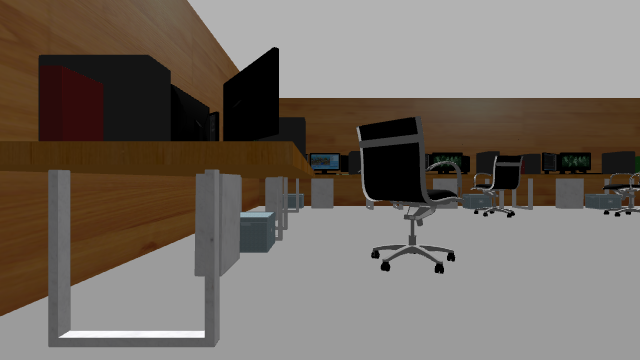
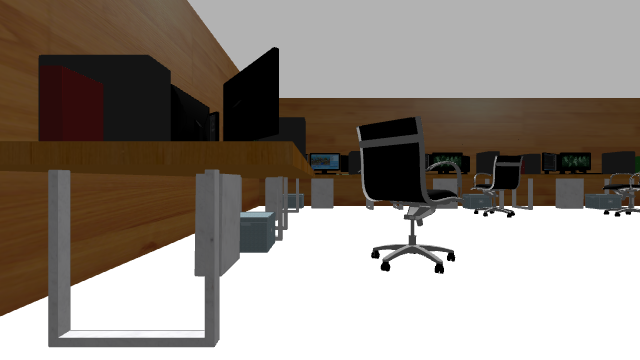
Paint the env04 floor white and refresh its shots
Change the ground-plane material from Gazebo/Grey to Gazebo/White in both the run world and the no-robot render world, so the near-orthographic top view is no longer black. Re-render the nine cameras, top view, annotated top and contact sheet.

diff --git a/scene_impl/IMPLEMENTATION_REPORT.md b/scene_impl/IMPLEMENTATION_REPORT.md
@@ -25,6 +25,7 @@
 > 3. B5 保持负分，B2/B3/目标不变；`audit_scene.py` 的 `DOOR_LABELS` 已同步（D_b1 负分、D_b4 办公）。
 > 4. 2026-11-17 已重渲染 env06 的 10 个机位、俯视图/标注图和 `rooms_contact_sheet.png`（新增 `cam_b4`/`cam_b4in`）。
 > 5. 2026-11-17 env04 接入同一套截图流程（9 机位 + 俯视/标注/拼图，输出 `shots/env04`）；同时修复可视化成功判定（audit 先于可视化运行，并回退读取 `audit.completion.task_done`）和设计平面图门宽标签（1.4 m → 实际 2.30 m）。
+> 6. 2026-11-17 env04 地面材质改为白色（`Gazebo/White`），俯视截图不再全黑；9 机位、俯视、标注和拼图已重新渲染。
 
 ## 1. 交付物
 
